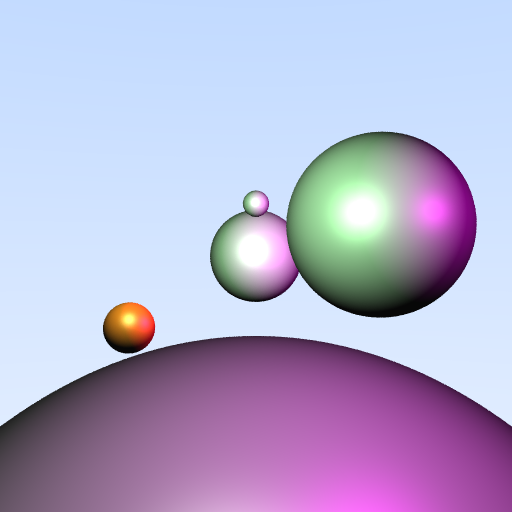
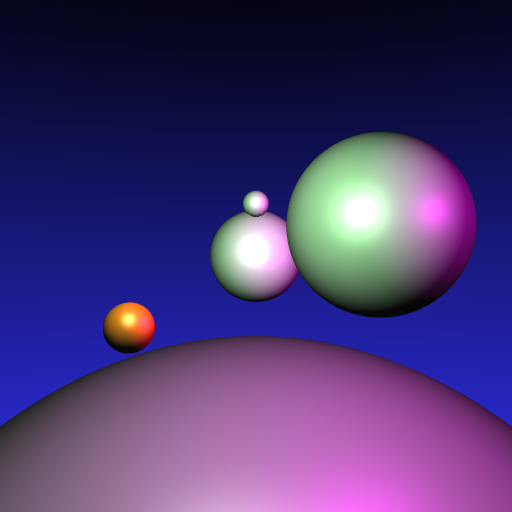
A4: changed background color

diff --git a/A4/A4.cpp b/A4/A4.cpp
@@ -68,7 +68,7 @@ vec3 rayColor(
 	if (hitAnything) {
 		// Perform Blinn-Phong shading for each lightsource
 		if (record.material->m_materialType == MaterialType::PhongMaterial) {
-			vec3 L(0.1 * ambient);
+			vec3 L(0.1*ambient);
 
 			for (const Light * light: lights) {
 				PhongMaterial *phongMaterial = static_cast<PhongMaterial *>(tempRecord.material);
@@ -102,10 +102,17 @@ vec3 rayColor(
 
 	// Background
 	vec3 unitDirection = normalize(ray.getDirection());
-	float t = (unitDirection.y + 1.0) / 3.0;
+	float t = (normalize(unitDirection).y + 0.5);
 	// return (t) * vec3(0.0, 0.0, 0.0) + (1.0 - 2.0 * t) * vec3(0.0, 0.0, 0.0) + (1.0 - t) * vec3(0.0, 0.0, 1.0);
-	return (1.0-t) * vec3(1.0, 1.0, 1.0) + (t) * vec3(0.5, 0.7, 1.0);
+	return (1.0-t) * vec3(0.2, 0.2, 1.0) + (t) * vec3(0.0, 0.0, 0.0);
 	// return (1.0-t) * vec3(0.5, 0.5, 0.1) + (t) * vec3(0.3, 0.3, 1.0);
+
+	// // Background
+	// vec3 unitDirection = normalize(ray.getDirection());
+	// float t = (unitDirection.y + 1.0) / 3.0;
+	// // return (t) * vec3(0.0, 0.0, 0.0) + (1.0 - 2.0 * t) * vec3(0.0, 0.0, 0.0) + (1.0 - t) * vec3(0.0, 0.0, 1.0);
+	// return (1.0-t) * vec3(1.0, 1.0, 1.0) + (t) * vec3(0.5, 0.7, 1.0);
+	// // return (1.0-t) * vec3(0.5, 0.5, 0.1) + (t) * vec3(0.3, 0.3, 1.0);
 }
 
 void A4_Render(
